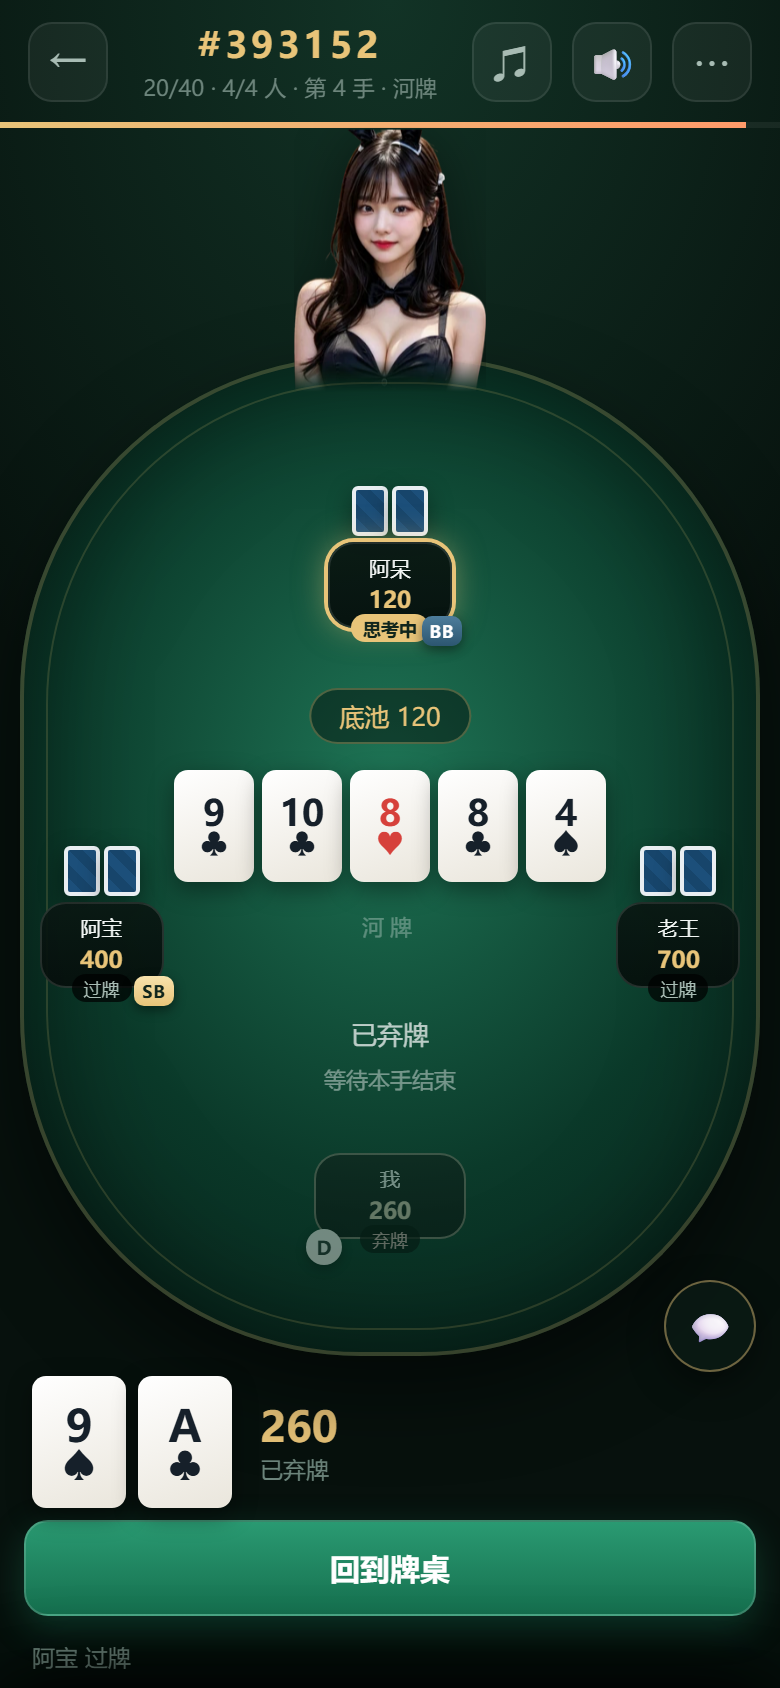
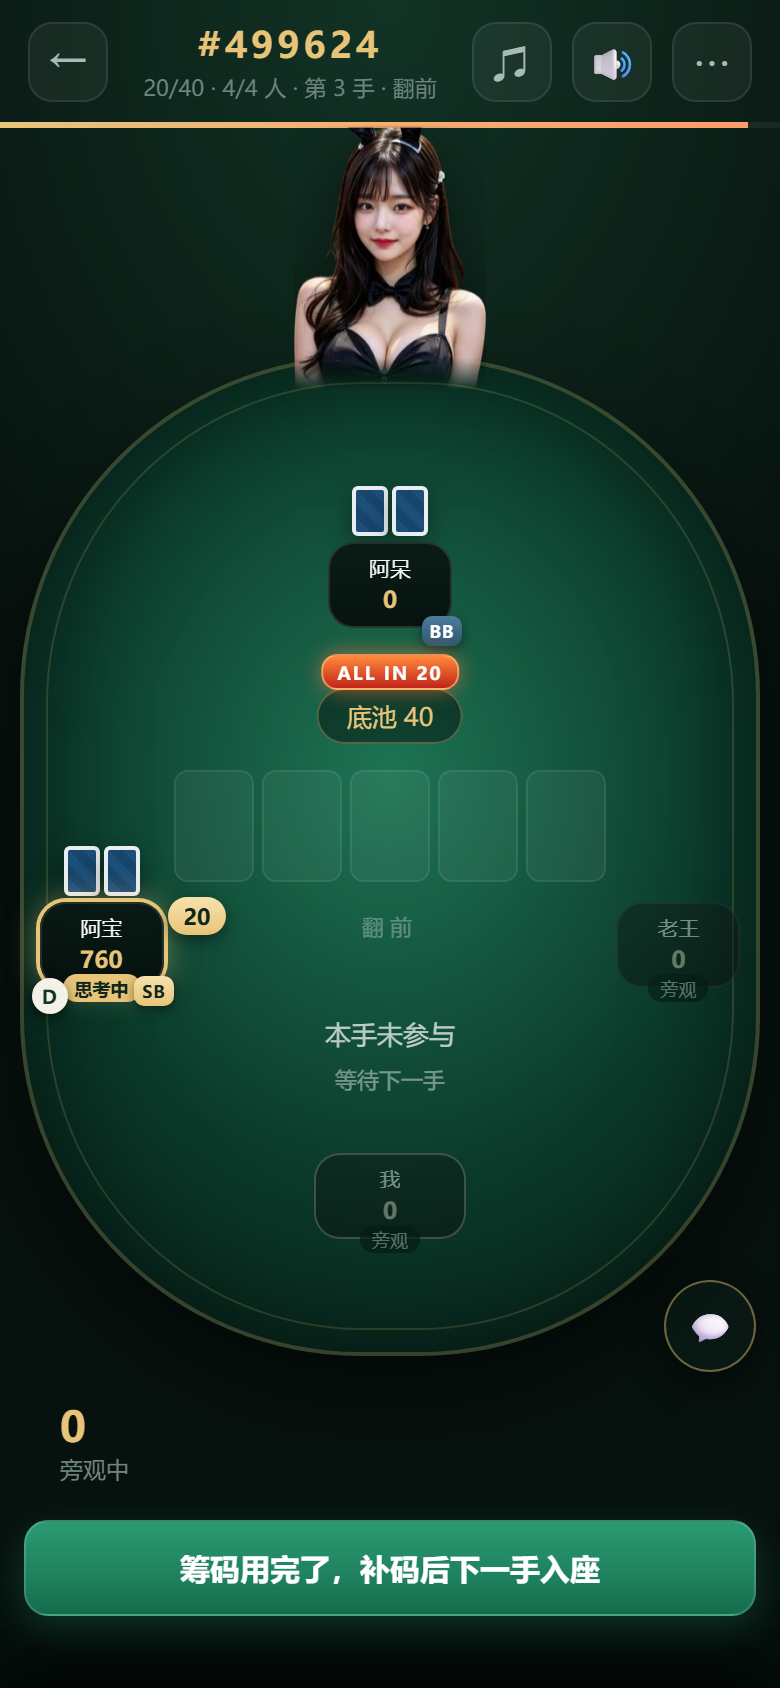
fix: 去掉注额筹码图标；ALL IN 徽章下移到 SB/BB 下方
- web: 移除注额旁的 1–5 个筹码小图标（JS 的 chipStack() 与 CSS 的 .chip-stack/.chip-dot 一并删除）
- web: ALL IN 徽章 bottom 从 -11px 调整到 -31px，落在 SB/BB 标记下方；
  实测几何：盲注标记底边 322px、ALL IN 顶边 326px，间距 4px，不再重叠
- docs: 截图与说明同步

diff --git a/coco_dezhou/web/css/style.css b/coco_dezhou/web/css/style.css
@@ -930,11 +930,11 @@ input[type=range].raise-range::-webkit-slider-thumb {
   100% { transform: perspective(520px) rotateY(0) scale(1); filter: none; }
 }
 
-/* ALL IN 徽章（贴在座位牌下沿，不会压到公共牌；不要火苗） */
+/* ALL IN 徽章（贴在座位牌下方，位于 SB/BB 标记的更下面，二者不重叠） */
 .allin-badge {
   position: absolute;
   left: 50%;
-  bottom: -11px;
+  bottom: -31px;
   transform: translateX(-50%);
   padding: 2px 7px;
   border-radius: 8px;
@@ -1017,24 +1017,6 @@ input[type=range].raise-range::-webkit-slider-thumb {
 }
 .seat.is-winner .plate {
   box-shadow: 0 0 0 2px rgba(232, 196, 121, 0.9), 0 0 18px rgba(232, 196, 121, 0.45);
-}
-
-/* 下注金额旁的筹码图案：金额越大，堆得越多 */
-.chip-stack {
-  display: inline-flex;
-  align-items: center;
-  gap: 1px;
-  margin-right: 4px;
-  vertical-align: -2px;
-}
-.chip-dot {
-  width: 7px;
-  height: 7px;
-  border-radius: 50%;
-  background:
-    radial-gradient(circle at 50% 50%, #fff 0 24%, transparent 27%),
-    repeating-conic-gradient(#e8c479 0 45deg, #b8974f 45deg 90deg);
-  box-shadow: inset 0 0 0 1px rgba(255, 255, 255, 0.55);
 }
 
 /* ===================== 房间聊天 ===================== */

diff --git a/coco_dezhou/web/js/app.js b/coco_dezhou/web/js/app.js
@@ -427,9 +427,7 @@ function seatEl(seat, xy, v, mySeat) {
   if (seat.allIn && !seat.folded) {
     node.appendChild(el('div', 'allin-badge', `ALL IN${seat.bet > 0 ? ' ' + fmt(seat.bet) : ''}`));
   } else if (seat.bet > 0) {
-    const chip = el('div', 'bet-chip');
-    chip.innerHTML = `${chipStack(seat.bet, v.settings.bb)}${fmt(seat.bet)}`;
-    node.appendChild(chip);
+    node.appendChild(el('div', 'bet-chip', fmt(seat.bet)));
   }
 
   // 赢家：方框右上角 WIN + 右侧 +筹码数
@@ -444,12 +442,6 @@ function seatEl(seat, xy, v, mySeat) {
     if (xy[0] > 70) node.classList.add('win-left');
   }
   return node;
-}
-
-/** 金额越大，筹码图案越多（1–5 个） */
-function chipStack(amount, bb) {
-  const n = Math.min(5, Math.max(1, Math.ceil(amount / (bb * 1.5))));
-  return `<span class="chip-stack">${'<i class="chip-dot"></i>'.repeat(n)}</span>`;
 }
 
 function escapeHtml(s) {

diff --git a/coco_dezhou/README.md b/coco_dezhou/README.md
@@ -87,8 +87,7 @@ npm run bots
 - 房间设置新增「**超时自动弃牌**」开关（默认开）：时间到一律弃牌；关闭后"无需跟注时自动过牌"。**连续 3 次超时自动旁观**，不再占着座位让别人干等
 - 每步倒计时进度条，超时自动行动
 - 摊牌自动亮牌，**不弹结算弹窗**：赢家座位右上角亮起 `WIN`、右侧显示 `+筹码数`，其余人的输赢在对局记录里看；本手未参与的人等下一手
-- 座位牌右下角标记本手**小盲 `SB` / 大盲 `BB`**，庄家按钮 `D` 在左下角
-- 下注金额旁按金额显示 **1–5 枚筹码小图标**，金额越大堆得越多
+- 座位牌右下角标记本手**小盲 `SB` / 大盲 `BB`**，庄家按钮 `D` 在左下角；全下玩家的 `ALL IN` 徽章挂在它俩下方，互不遮挡
 - **房间聊天**：牌桌右下角的 💬 打开聊天面板，边打牌边说话；有未读时按钮上出现红色角标；面板里能看到**完整聊天记录**（含谁进出了房间，保留最近 200 条），历史记录也能通过 `GET /api/rooms/:code/chat` 取到
 - **背景音乐与音效**：全部用 WebAudio 现场合成，不加载音频文件。音乐有 **3 段可切换的爵士**（爵士酒廊 / 蓝调酒吧 / 巴萨诺瓦，点顶栏 **♫** 选曲或关闭），音效用 **🔊** 开关：发牌、筹码、过牌、弃牌、加注、全下、赢/输、轮到你、新消息
 - **桌面动画**：桌沿上方站着荷官（用的是 `web/img/dealer.webp`，白底已抠掉，可整张替换；尺寸 96×132，图片顶端在思考进度条下方，不会遮挡），开牌时**一张一张**慢发底牌、翻牌三张连发、转牌/河牌单发；跟注/加注的筹码**先堆在自己面前**，一轮结束再一起收进底池；全下的人亮起「ALL IN」徽章（无火苗）；摊牌时底牌翻面、底池筹码飞向赢家

diff --git a/coco_dezhou/docs/二次开发.md b/coco_dezhou/docs/二次开发.md
@@ -62,7 +62,7 @@ npm run dev            # = node --watch server/index.mjs，改服务端代码自
 | 对局记录（手牌流水 / 账本） | `server/table.mjs`、`web/js/app.js` | `_recordHand()`、`handHistory()`、`renderHistory()` |
 | 音效 / 背景音乐 | `web/js/audio.js` | `play(name)` 里的音色；`TRACKS` 里的三首爵士（和弦、BPM、摇摆度） |
 | 荷官形象 | `web/img/dealer.webp`（+`dealer.png` 兜底）+ `web/index.html` | 换头像直接替换这两张（已抠白底，建议 3:4 竖图）；尺寸在 `.dealer` |
-| 赢家 WIN / SB、BB 标记 / 注额筹码图标 | `web/js/app.js`（`seatEl()`）+ `web/css/style.css` | `.win-badge` `.blind-tag` `.chip-stack` |
+| 赢家 WIN / SB、BB 标记 / ALL IN 徽章 | `web/js/app.js`（`seatEl()`）+ `web/css/style.css` | `.win-badge` `.blind-tag` `.allin-badge` |
 | 发牌 / 筹码 / 翻牌 / 收池动画 | `web/js/fx.js` | `flyCard()`、`pushChips()`、`collectChips()`、`revealTableCards()` |
 | ALL IN 徽章与火苗 | `web/css/style.css` + `web/js/app.js` | `.allin-badge` / `.flame`、`seatEl()` 里的徽章分支 |
 | 房间聊天 | `server/rooms.mjs` + `web/js/app.js` | `handle('chat')` / `chatList()`、`renderChat()`、`#sheet-chat` |
